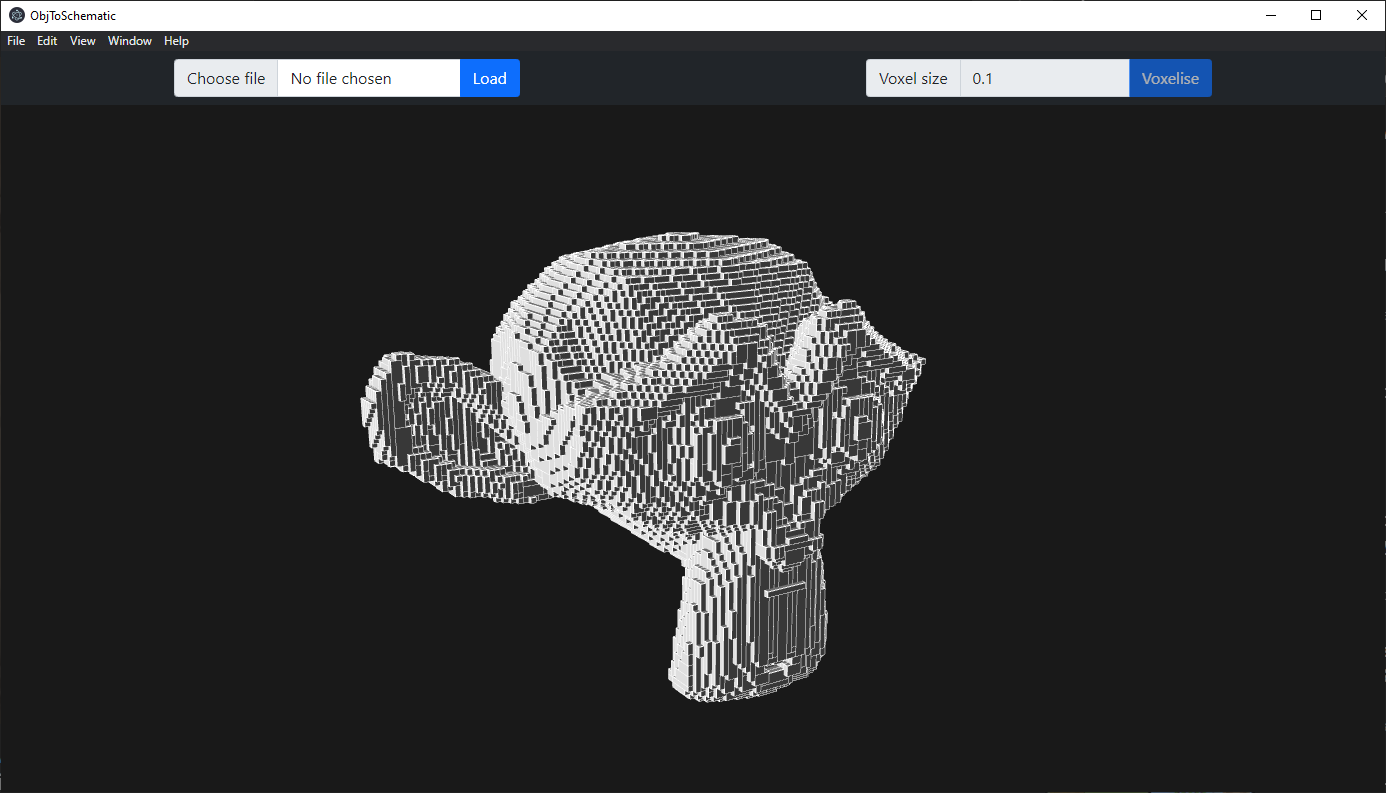
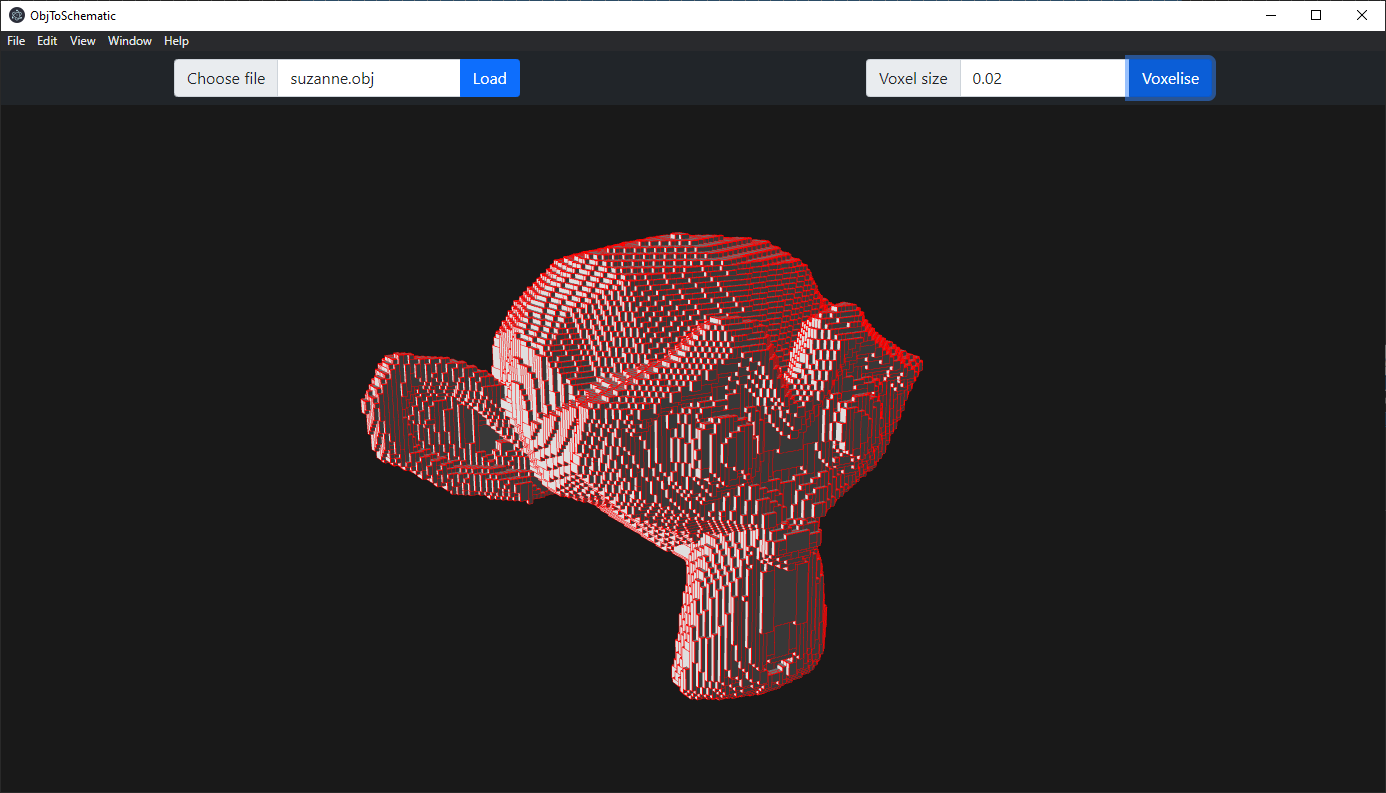
Fixed clearing voxels, cleanup, README.md update

diff --git a/src/client.js b/src/client.js
@@ -11,6 +11,8 @@ const voxelManager = new VoxelManager(voxelSize);
 const nav = document.querySelector("#nav");
 let canvas = document.querySelector("#c");
 
+const showMeshing = false;
+const showFailedAABBs = true;
 
 function resizeCanvas() {
     canvas.height = window.innerHeight - 54;
@@ -38,6 +40,7 @@ document.querySelector("#objBtn").addEventListener('click', () => {
     renderer.compileRegister();
 });
 
+
 document.querySelector("#voxelBtn").addEventListener('click', () => {
     const voxelSize = document.querySelector("#voxelInput").value;
     
@@ -46,17 +49,30 @@ document.querySelector("#voxelBtn").addEventListener('click', () => {
 
     renderer.setVoxelSize(voxelSize);
     voxelManager.setVoxelSize(voxelSize);
-    
+
     voxelManager.voxeliseMesh(loadedMesh);
 
     renderer.clear();
-    const mesh = voxelManager.buildMesh();
     
+    const mesh = voxelManager.buildMesh();
     for (const box of mesh) {
         renderer.registerBox(box.centre, box.size, false);
-        //renderer.registerBox(box.centre, box.size, true);
     }
 
+    if (showMeshing) {
+        renderer.setStroke(new Vector3(1.0, 0.0, 0.0));
+        for (const box of mesh) {
+            renderer.registerBox(box.centre, box.size, true);
+        }
+    }
+
+    if (showFailedAABBs) {
+        renderer.setStroke(new Vector3(0.0, 0.0, 1.0));
+        for (const box of voxelManager.failedAABBs) {
+            renderer.registerBox(box.centre, box.size, true);
+        }
+    }
+    
     renderer.compileRegister();
 });
 

diff --git a/src/voxel_manager.js b/src/voxel_manager.js
@@ -25,6 +25,14 @@ class VoxelManager {
     clear() {
         this.voxels = [];
         this.failedAABBs = [];
+
+        this.minX = Infinity; // JavaScript crack
+        this.minY = Infinity;
+        this.minZ = Infinity;
+        this.maxX = -Infinity;
+        this.maxY = -Infinity;
+        this.maxZ = -Infinity;
+        this.voxelsHash = new HashSet(2048);
     }
 
     _getTriangleCubeAABB(triangle) {
@@ -154,7 +162,7 @@ class VoxelManager {
 
         this.mesh = [];
         this.seen = new HashSet(2048);
-        console.log(this.voxelsHash);
+        //console.log(this.voxelsHash);
 
         const minPos = this._voxelCentreToPosition(new Vector3(this.minX, this.minY, this.minZ));
         const maxPos = this._voxelCentreToPosition(new Vector3(this.maxX, this.maxY, this.maxZ));
@@ -184,7 +192,7 @@ class VoxelManager {
             }
         }
 
-        console.log("Mesh:", this.mesh);
+        //console.log("Mesh:", this.mesh);
 
         return this.mesh;
     }

diff --git a/src/hash_map.js b/src/hash_map.js
@@ -6,6 +6,9 @@ class HashSet {
     constructor(numBins) {
         this.numBins = numBins;
         this.bins = new Array(numBins);
+        for (let i = 0; i < numBins; ++i) {
+            this.bins[i] = [];
+        }
     }
 
     _getBin(key) {
@@ -15,20 +18,11 @@ class HashSet {
 
     add(key) {
         const binIndex = this._getBin(key);
-
-        if (!this.bins[binIndex]) {
-            this.bins[binIndex] = [ key ];
-        } else {
-            this.bins[binIndex].push(key);
-        }
+        this.bins[binIndex].push(key);
     }
 
     contains(key) {
         const binIndex = this._getBin(key);
-
-        if (!this.bins[binIndex]) {
-            return false;
-        }
 
         const list = this.bins[binIndex];
         for (const item of list) {

diff --git a/index.html b/index.html
@@ -20,16 +20,8 @@
         <label class="input-group-text" for="inputGroupFileAddon03">Voxel size</label>
         <input type="number" min="0.1" step="0.1" value="0.1" class="form-control" id="voxelInput" aria-describedby="inputGroupFileAddon03" aria-label="Voxel size" disabled>
         <button id="voxelBtn" class="btn btn-primary" type="button" id="inputGroupFileAddon03" disabled>Voxelise</button>
-      </div>
-
-      
+      </div> 
     </nav>
-    <!--
-    <div class="progress" style="height: 1px;">
-      <div class="progress-bar" role="progressbar" style="width: 25%;" aria-valuenow="25" aria-valuemin="0" aria-valuemax="100"></div>
-    </div>
-    -->
-
     <canvas id="c"></canvas>
   </body>
 

diff --git a/src/renderer.js b/src/renderer.js
@@ -119,7 +119,7 @@ class Renderer {
     }
 
     clear() {
-        console.log("clearing");
+        //console.log("clearing");
         
         this._debugRegister = this._getEmptyDebugRegister();
         this._register = this._getEmptyRegister();

diff --git a/README.md b/README.md
@@ -7,6 +7,8 @@ A tool to convert .obj files into Minecraft Schematics
 
 ![DebugPreview](/resources/debug_preview.png)
 
+![MeshingPreview](/resources/greedy_meshing.png)
+
 # Progress
 0.1
 * ✔ **.json model loading**
@@ -15,15 +17,15 @@ A tool to convert .obj files into Minecraft Schematics
 * ✔ **Basic .obj file loader UI**
 
 0.2
-* Greedy voxel meshing
+* ✔ **Greedy voxel meshing**
 * Export to schematic
 
 0.3
 * Building guides
 * Slice viewer
 
+
 # Usage
-Since no build has been released yet, you'll need to:
 * Download and install [Node.js](https://nodejs.org/en/).
 * Execute `git clone https://github.com/LucasDower/ObjToSchematic.git` in your command line.
 * Navigate to `/ObjToSchematic-main`.
